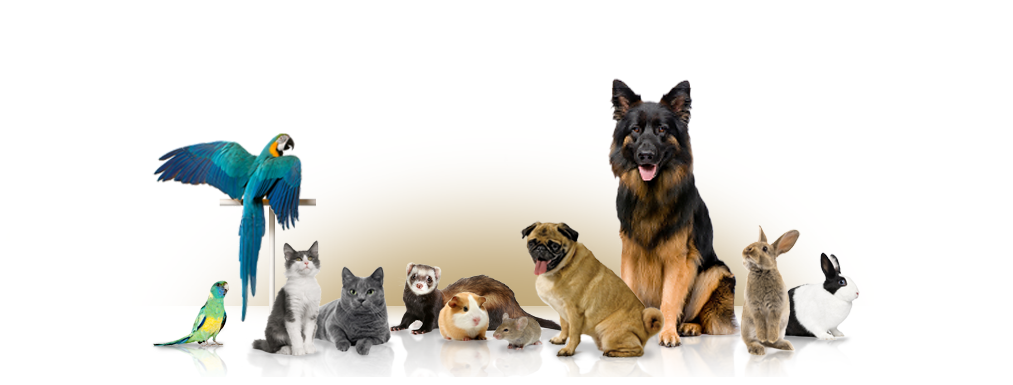
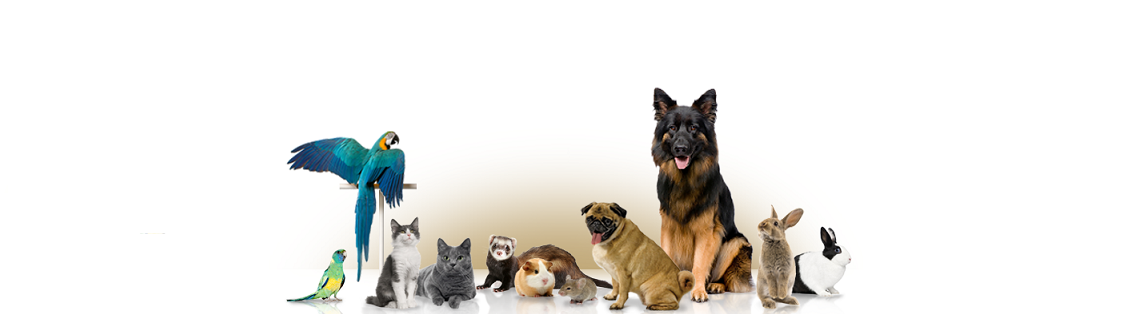
remove button from product list

Changed region(s): [[0.153, 0.2006, 0.8569, 1.0]]

diff --git a/src/main/webapp/resources/css/petsmart.css b/src/main/webapp/resources/css/petsmart.css
@@ -9,8 +9,8 @@ body {
 }
 
 .carousel-item {
-    height: 65vh;
-    min-height: 300px;
+    height: 40vh;
+    min-height: 200px;
     background: no-repeat center center scroll;
     -webkit-background-size: cover;
     -moz-background-size: cover;
@@ -140,4 +140,8 @@ body {
 }
 
 
-
+/* .card .btn.focus, .card .btn:focus, .card .btn-primary.focus, .card .btn-primary:focus{
+	color: #fff;
+    background-color: #0069d9;
+    border-color: #0062cc;
+} */
